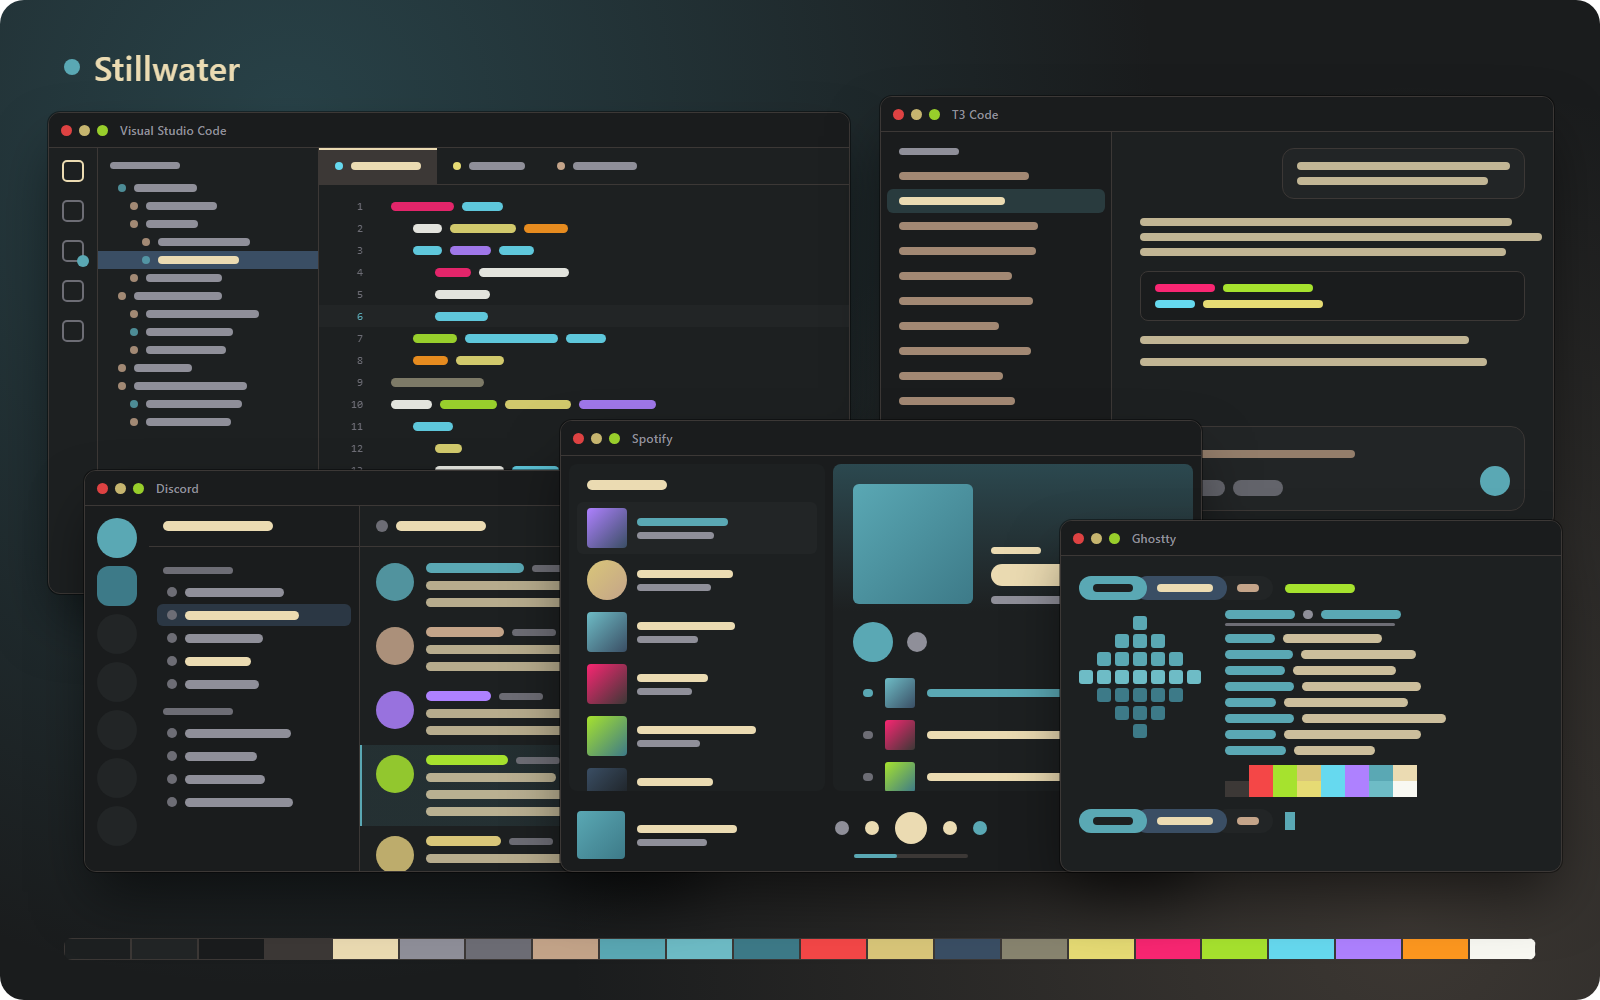
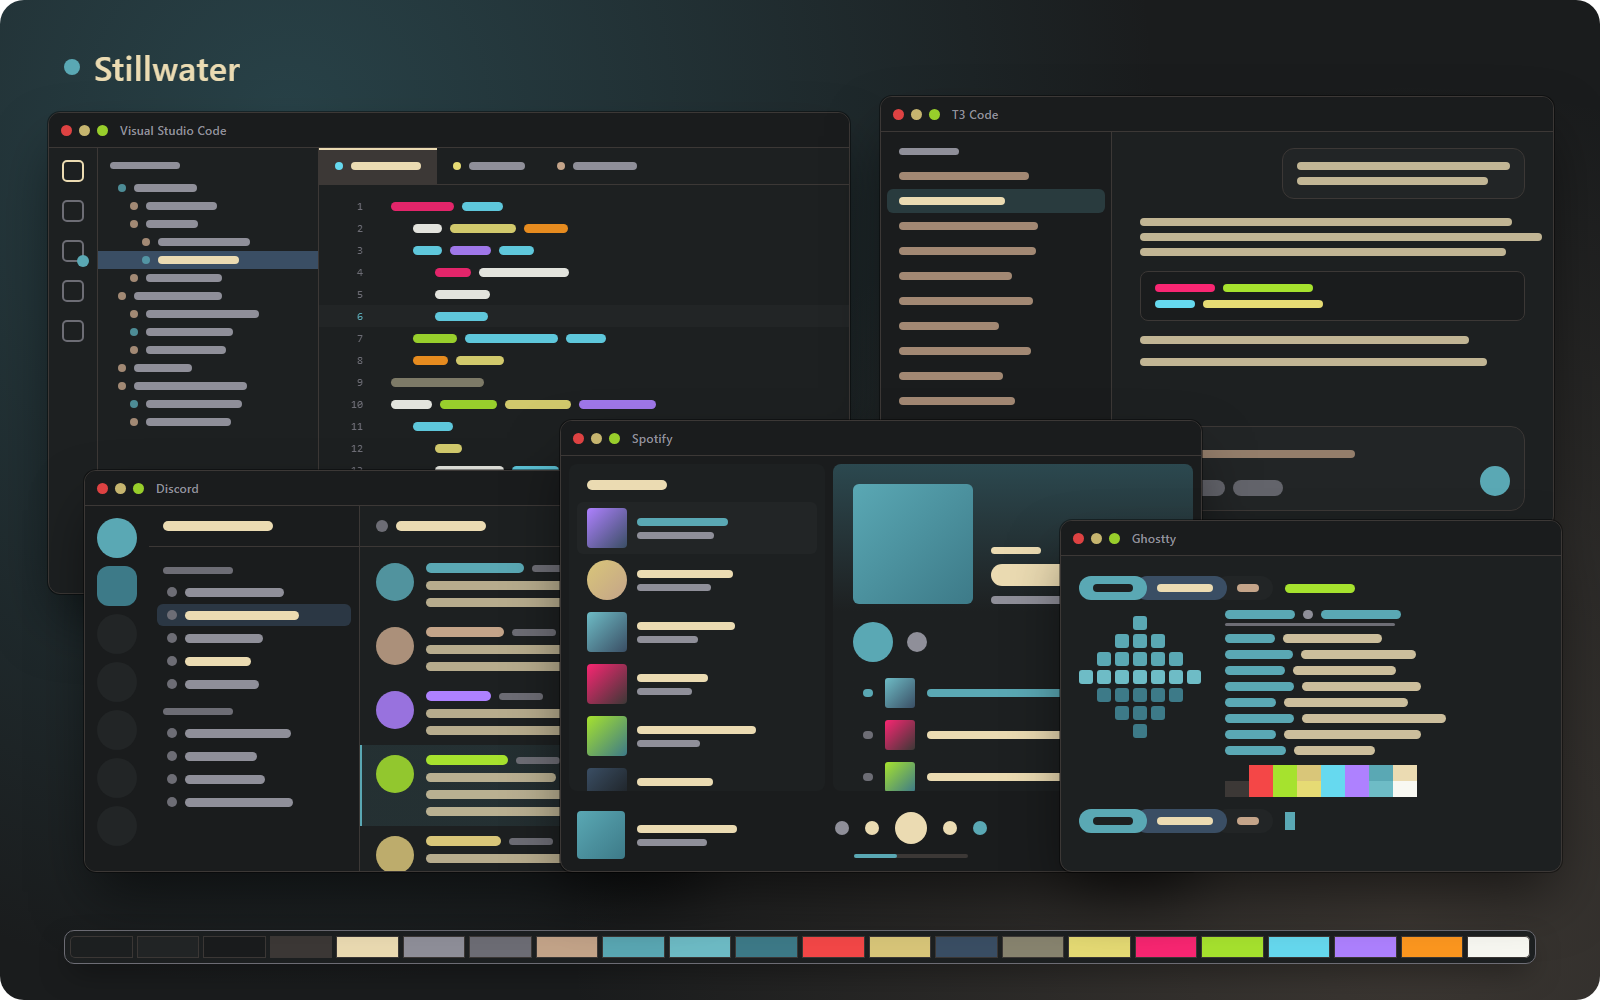
Frame the showcase palette row so its dark swatches stand off the backdrop.

Changed region(s): [[0.0312, 0.93, 0.9688, 0.961]]

diff --git a/showcase/render.ts b/showcase/render.ts
@@ -49,7 +49,8 @@ html,body{margin:0;background:transparent}
 ${CSS}
 .mark{position:absolute;left:64px;top:44px;display:flex;align-items:center;gap:14px;font-weight:600;font-size:34px;letter-spacing:.01em}
 .mark i{width:16px;height:16px;border-radius:50%}
-.strip{position:absolute;left:64px;right:64px;bottom:40px;display:flex;border-radius:8px;overflow:hidden}
+.strip{position:absolute;left:64px;right:64px;bottom:36px;display:flex;gap:4px;padding:5px;border-radius:10px;background:${P.canvas};border:1px solid ${P.textFaint};box-shadow:0 12px 30px -8px rgba(0,0,0,.5)}
+.strip span:first-child{border-radius:5px 0 0 5px}.strip span:last-child{border-radius:0 5px 5px 0}
 </style></head><body>
 <div class="stage" style="width:${W}px;height:${H}px;background:${backdrop};border-radius:24px">
   <div class="mark" style="color:${P.text}"><i style="background:${P.accent}"></i>Stillwater</div>
